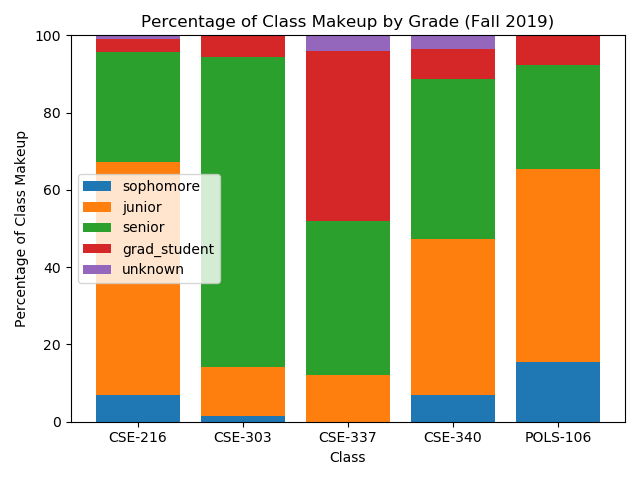
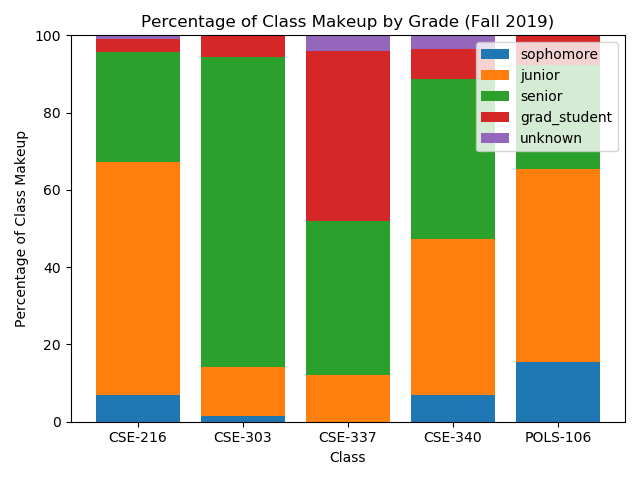
Analysis done for Spring 2020, and full school year. Just need to polish it now.

Changed region(s): [[0.7188, 0.0625, 0.9688, 0.3438], [0.125, 0.3438, 0.3438, 0.5938]]

diff --git a/coursesite/plot.py b/coursesite/plot.py
@@ -7,14 +7,18 @@ import re
 import pandas
 from collections import Counter
 
+with open('spring2020classes.json', 'r') as json_file:
+    classes_s2020 = json.load(json_file)
+
 with open('fall2019classes.json', 'r') as json_file:
-    classes = json.load(json_file)
+    classes_f2019 = json.load(json_file)
 
 course_participants = {}
 
-for c in classes:
-    course_participants[c['class_text']] = [p['user_id'] for p in c['participants']]
+for c in classes_f2019 + classes_s2020:
+    course_participants[c['class_text']] = set(p['user_id'] for p in c['participants'])
 
+print(course_participants)
 
 # Enchrich with class breakdown.
 with open('users0-67025.json', 'r') as json_file:
@@ -34,15 +38,18 @@ def plot_upset():
     # All 461 users have an email address associated with their coursesite!!!
     for p_id in participant_ids:
         # print(users_id_dict[p_id])
-        email = users_id_dict[p_id]['user_details']['Email address']
-        # print(email)
-        match = re.search(r'[a-zA-Z]{3}\d(\d{2})@lehigh.edu', email)
-        if match:
-            grad_year = int(match.group(1))
-            # Get rid of really old emails things...
-            if grad_year < 20:
+        try:
+            email = users_id_dict[p_id]['user_details']['Email address']
+            # print(email)
+            match = re.search(r'[a-zA-Z]{3}\d(\d{2})@lehigh.edu', email)
+            if match:
+                grad_year = int(match.group(1))
+                # Get rid of really old emails things...
+                if grad_year < 20:
+                    grad_year = None
+            else:
                 grad_year = None
-        else:
+        except KeyError:
             grad_year = None
 
         graduation_years.append(grad_year)
@@ -56,43 +63,51 @@ def plot_upset():
     us = upsetplot.UpSet(df, subset_size='count', show_counts='%d')
     us.add_catplot(value='graduation_year', kind='violin')
     us.plot()
-    plt.title('Set Intersections in My Fall 2019 Schedule')
+    plt.title('Set Intersections in My Spring 2020 Schedule')
     plt.show()
 
 def plot_grad_year():
+    '''
+    Note: This code doesn't fully handle
+    if there are freshmen in your classes.
+    :return:
+    '''
     course_grad_years = {}
     for course, participants in course_participants.items():
         grad_years = []
         for p_id in participants:
-            # print(users_id_dict[p_id])
-            email = users_id_dict[p_id]['user_details']['Email address']
-            # print(email)
-            match = re.search(r'[a-zA-Z]{3}\d(\d{2})@lehigh.edu', email)
-            if match:
-                grad_year = '20' + match.group(1)
-                # Get rid of really old emails things...
-                if int(grad_year) < 2019:
-                    grad_string = 'grad_student'
-                elif int(grad_year) == 2019 or int(grad_year) == 2020:
-                    grad_string = 'senior'
-                elif int(grad_year) == 2021:
-                    grad_string = 'junior'
-                elif int(grad_year) == 2022:
-                    grad_string = 'sophomore'
-                elif int(grad_year) == 2023:
-                    grad_string = 'freshman'
+            try:
+                # print(users_id_dict[p_id])
+                email = users_id_dict[p_id]['user_details']['Email address']
+                # print(email)
+                match = re.search(r'[a-zA-Z]{3}\d(\d{2})@lehigh.edu', email)
+                if match:
+                    grad_year = '20' + match.group(1)
+                    # Get rid of really old emails things...
+                    if int(grad_year) < 2019:
+                        grad_string = 'grad_student'
+                    elif int(grad_year) == 2019 or int(grad_year) == 2020:
+                        grad_string = 'senior'
+                    elif int(grad_year) == 2021:
+                        grad_string = 'junior'
+                    elif int(grad_year) == 2022:
+                        grad_string = 'sophomore'
+                    elif int(grad_year) == 2023:
+                        grad_string = 'freshman'
+                    else:
+                        grad_string = 'error'
                 else:
-                    grad_string = 'error'
-            else:
+                    grad_string = 'unknown'
+            except:
                 grad_string = 'unknown'
+
             grad_years.append(grad_string)
+
         course_grad_years[course] = Counter(grad_years)
 
     print(course_grad_years)
     r = [0, 1, 2, 3, 4]
 
-    print(course_grad_years['CSE-216'])
-    print(sum(course_grad_years['CSE-216'].values()))
     # fresh_bar = []
     soph_bar = []
     jun_bar = []
@@ -114,12 +129,24 @@ def plot_grad_year():
     plt.bar(r, grad_bar, bottom=[i+j+k for i,j,k in zip(soph_bar, jun_bar, sen_bar)], label='grad_student')
     plt.bar(r, unkn_bar, bottom=[i+j+k+l for i,j,k,l in zip(soph_bar, jun_bar, sen_bar, grad_bar)], label='unknown')
     plt.xticks(r, course_grad_years.keys())
-    plt.legend()
+    plt.legend(loc='upper right')
     plt.ylabel('Percentage of Class Makeup')
     plt.xlabel('Class')
     plt.title('Percentage of Class Makeup by Grade (Fall 2019)')
     plt.show()
 
+
+def find_intersection():
+    print(course_participants.keys())
+    # Fall 2019:    POLS-106  CSE-337  CSE-216  CSE-303  CSE-340
+    # Spring 2020:  CSE-398   CSE-403  CSE-280  CSE-327  CSE-318
+    query = {'CSE-327', 'CSE-318', 'CSE-216', 'CSE-303', 'CSE-340'}
+
+    # Find the combined intersection.
+    s = course_participants[query.pop()]    # get an arbitrary element.
+    for q in query:
+        s.intersection_update(course_participants[q])
+    print(s)
 
 
 
@@ -127,3 +154,4 @@ def plot_grad_year():
 if __name__ == '__main__':
     # plot_upset()
     plot_grad_year()
+    # find_intersection()

diff --git a/coursesite/scrape.py b/coursesite/scrape.py
@@ -183,7 +183,7 @@ def scrape_classes(driver):
 
 
     print(classes)
-    with open('classes.json', 'w') as outfile:
+    with open('classes_raw.json', 'w') as outfile:
         json.dump(classes, outfile)
 
 
@@ -215,5 +215,5 @@ if __name__ == '__main__':
     #     scrape_all_users(driver)
     # with webdriver.Firefox(executable_path='../geckodriver.exe') as driver:
     driver = webdriver.Firefox(executable_path='../geckodriver.exe')
-    scrape_all_users(driver)
-    # scrape_classes(driver)
+    # scrape_all_users(driver)
+    scrape_classes(driver)

diff --git a/README.md b/README.md
@@ -1,4 +1,4 @@
-## Which people do I share the most classes with?
+# Which people do I share the most classes with?
 
 Most students think about this question at the beginning of a semester.
 They might ask their friends about the classes they're taking, and they'll probably notice a few people who they share a bunch of classes with.
@@ -80,7 +80,72 @@ Unfortunately, I don't think this is very readable. Other than a series of pie c
 really sure how to express percentages for several different groups well.
 
 
-#### Spring 2020 classes (stay tuned)
+### Spring 2020 classes
+
+Here is my spring schedule. 
+It's my first time taking a grad class so we'll see how that goes.
+
+| ID      | Name                       |
+|---------|----------------------------|
+| CSE-398 | Software Verification      |
+| CSE-403 | Advanced Operating Systems |
+| CSE-280 | Capstone Project I         |
+| CSE-327 | Artificial Intelligence    |
+| CSE-318 | Theory Of Computation      |
+
+_Software Verification doesn't have a coursesite to scrape, but Professor Michael Spear
+was kind enough to email me the participants list._
+
+![UpSet plot of Spring 2020](./coursesite/images/upsetplot_S2020_gradyear.png)
+
+**Brief Analysis:**
+- Software Verification and Advanced Operating Systems have a surprisingly high amount of overlap.
+- Similar to the Fall, There is a 11 way tie for people who share three classes with me.
+
+![Percentage bar chart of courses by grad_year for Spring 2020](./coursesite/images/percentage_bar_s2020.png)
+
+**Brief Analysis:**
+- The small percentage of "grad students" who are taking Capstone I are likely
+  super-super seniors which I misclassified.
+- The large amount of unknowns in Advanced Operating Systems are likely grad students
+  who never added their email address to coursesite.
+
+### All together now
+
+By combining my Fall 2019 and Spring 2020 data I was able to produce this monster.
+The set intersections of my entire 2019-2020 school year.
+
+![UpSet plot of 2019-2020](./coursesite/images/upsetplot_2019-2020_gradyear.png)
+
+_Try popping out the image to make it easier to read_
+
+While I'm sure there's some crazy analysis I could do with this graph,
+I'm going to settle for answering the question I posed in the beginning of this article.
+Which people share the most classes with me?
+
+6 classes (2 people)
+- Shane Acoveno
+- Letong (Simon) Zhang
+
+5 classes (9 people)
+- Daniel Yu
+- Reilly Yankovich
+- _Jitong Ding_
+- _Emir Anda_
+- _Hansen Lukman_
+- _Bradford (Brad) DeMassa_
+- _Olivia Grimes_
+- Thomas (Kingsley) Leighton
+- Nathan Tokala
+
+The five who are in italics all took the exact same courses:
+- Fall: CSE-216, CSE-340
+- Spring: CSE-280, CSE-327, CSE-318
+
+When beginning this project, I expected that I would not know the person who shares
+the most classes with me, and I was right. I don't know either of those people.
+
+What is surprising though is that I'm well acquainted with three of the people who share five classes with me.
 
 
 Aside:
